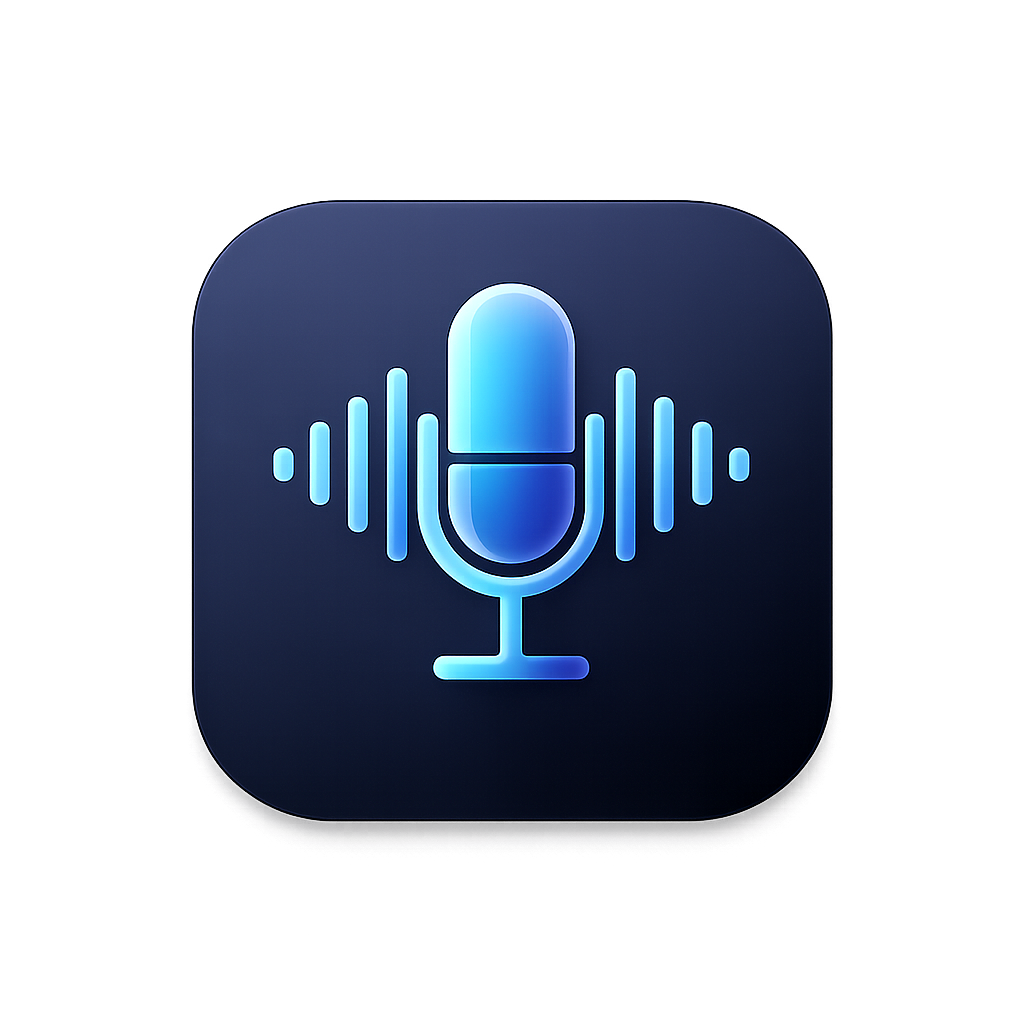
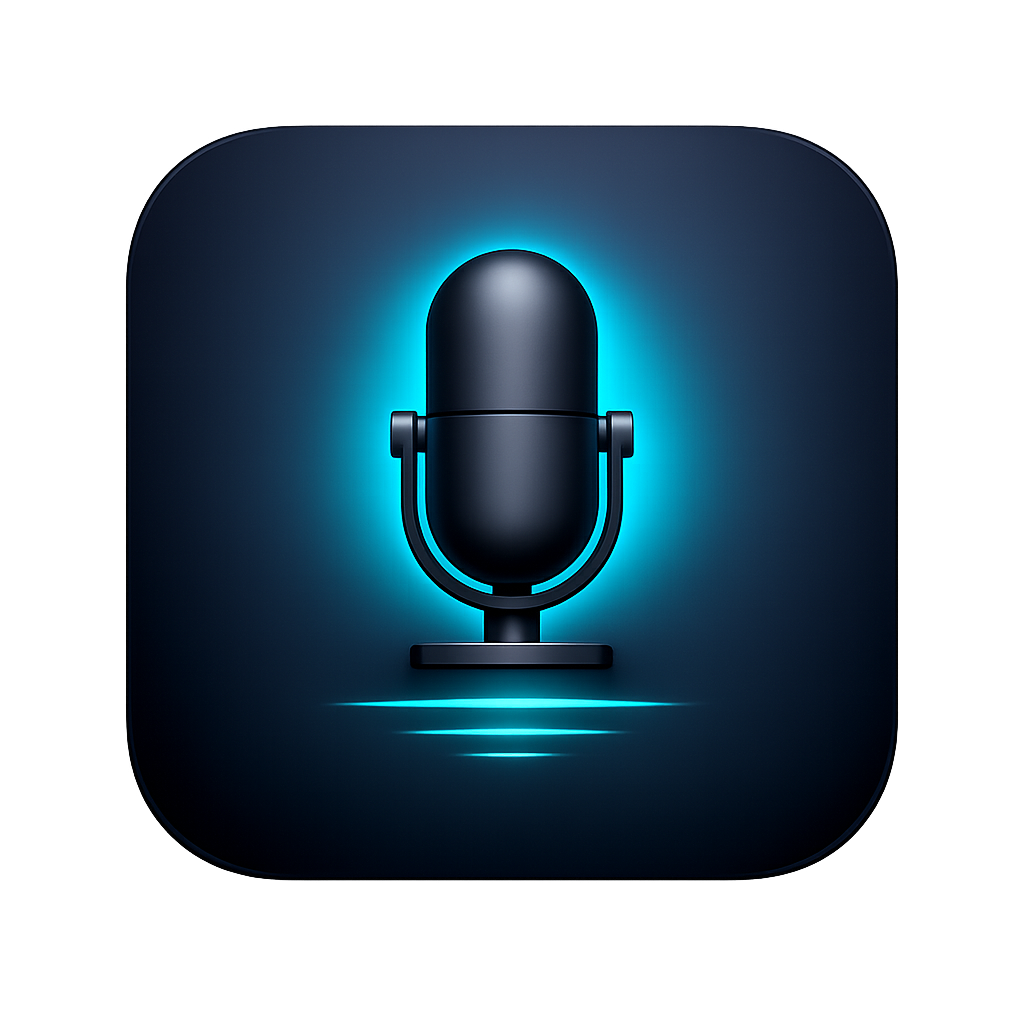
fix(models): disable large-v3-turbo — incompatible with whisper.cpp v1.4.2
SwiftWhisper bundles whisper.cpp v1.4.2 which hardcodes WHISPER_N_MEL=80.
large-v3-turbo requires 128 mel bands and was added in whisper.cpp v1.7.0.
Attempting to transcribe crashes with SIGABRT at whisper.cpp:1430.

Add TranscriptionModel.isCompatibleWithCurrentEngine (false for largeV3Turbo).
AppSettings init now auto-falls back to smallQ5 if stored model is incompatible.
ModelRow: incompatible models are grayed out, disabled, show "Requires update" badge.

Tech debt: update SwiftWhisper to embed whisper.cpp >= v1.7.0 to re-enable turbo.

Also: update artwork/image_voice_transparent.png with new generated icon.

diff --git a/Sources/VoiceType/Views/Settings/SettingsComponents.swift b/Sources/VoiceType/Views/Settings/SettingsComponents.swift
@@ -353,7 +353,8 @@ struct ModelRow: View {
     @ObservedObject private var modelManager = ModelManager.shared
 
     var body: some View {
-        Button(action: onSelect) {
+        let compatible = model.isCompatibleWithCurrentEngine
+        Button(action: compatible ? onSelect : {}) {
             HStack(alignment: .center, spacing: Spacing.md) {
                 Image(systemName: isSelected ? "checkmark.circle.fill" : "circle")
                     .foregroundStyle(isSelected ? Palette.accent : Palette.textMuted)
@@ -362,7 +363,7 @@ struct ModelRow: View {
                 VStack(alignment: .leading, spacing: 2) {
                     Text(model.displayName)
                         .font(Typography.body)
-                        .foregroundStyle(Palette.textPrimary)
+                        .foregroundStyle(compatible ? Palette.textPrimary : Palette.textMuted)
                     Text("\(model.estimatedSize) · Speed \(model.speedRating) · Quality \(model.qualityRating)")
                         .font(Typography.caption)
                         .foregroundStyle(Palette.textSecondary)
@@ -378,16 +379,20 @@ struct ModelRow: View {
             .padding(.horizontal, Spacing.prefsRowHorizontal)
             .padding(.vertical, Spacing.prefsRowVertical)
             .frame(minHeight: Spacing.prefsRowMinHeight)
+            .opacity(compatible ? 1.0 : 0.5)
         }
         .buttonStyle(.plain)
         .contentShape(Rectangle())
+        .disabled(!compatible)
         .accessibilityLabel(model.displayName)
         .accessibilityValue("\(downloadStateAccessibilityValue), \(model.estimatedSize), Speed \(model.speedRating), Quality \(model.qualityRating)")
     }
 
     @ViewBuilder
     private var downloadStateBadge: some View {
-        if modelManager.isModelDownloaded(model: model) {
+        if !model.isCompatibleWithCurrentEngine {
+            StatusBadge("Requires update", tone: .warning)
+        } else if modelManager.isModelDownloaded(model: model) {
             StatusBadge("Downloaded", tone: .positive)
         } else {
             StatusBadge("Not downloaded")
@@ -395,6 +400,7 @@ struct ModelRow: View {
     }
 
     private var downloadStateAccessibilityValue: String {
-        modelManager.isModelDownloaded(model: model) ? "Downloaded" : "Not downloaded"
+        if !model.isCompatibleWithCurrentEngine { return "Requires engine update, not selectable" }
+        return modelManager.isModelDownloaded(model: model) ? "Downloaded" : "Not downloaded"
     }
 }

diff --git a/Sources/VoiceType/Models/AppSettings.swift b/Sources/VoiceType/Models/AppSettings.swift
@@ -132,6 +132,13 @@ enum TranscriptionModel: String, Codable, CaseIterable {
         case .largeV3Turbo: return "Best quality with fast turnaround"
         }
     }
+
+    // SwiftWhisper bundles whisper.cpp v1.4.2 which hardcodes WHISPER_N_MEL=80.
+    // large-v3-turbo requires 128 mel bands and was added in whisper.cpp v1.7.0.
+    // Crashes with SIGABRT in whisper_encode_internal until SwiftWhisper updates.
+    var isCompatibleWithCurrentEngine: Bool {
+        self != .largeV3Turbo
+    }
 }
 
 final class AppSettings: ObservableObject {
@@ -181,7 +188,8 @@ final class AppSettings: ObservableObject {
 
     private init() {
         self.activationMode = ActivationMode(rawValue: defaults.string(forKey: "activationMode") ?? "") ?? .singlePress
-        self.selectedModel = TranscriptionModel(rawValue: defaults.string(forKey: "selectedModel") ?? "") ?? .smallQ5
+        let storedModel = TranscriptionModel(rawValue: defaults.string(forKey: "selectedModel") ?? "") ?? .smallQ5
+        self.selectedModel = storedModel.isCompatibleWithCurrentEngine ? storedModel : .smallQ5
         let storedModifiers = defaults.integer(forKey: "hotkeyModifiers")
         if storedModifiers == 0 {
             // Factory default per spec audit: Option + Space. This supersedes the
